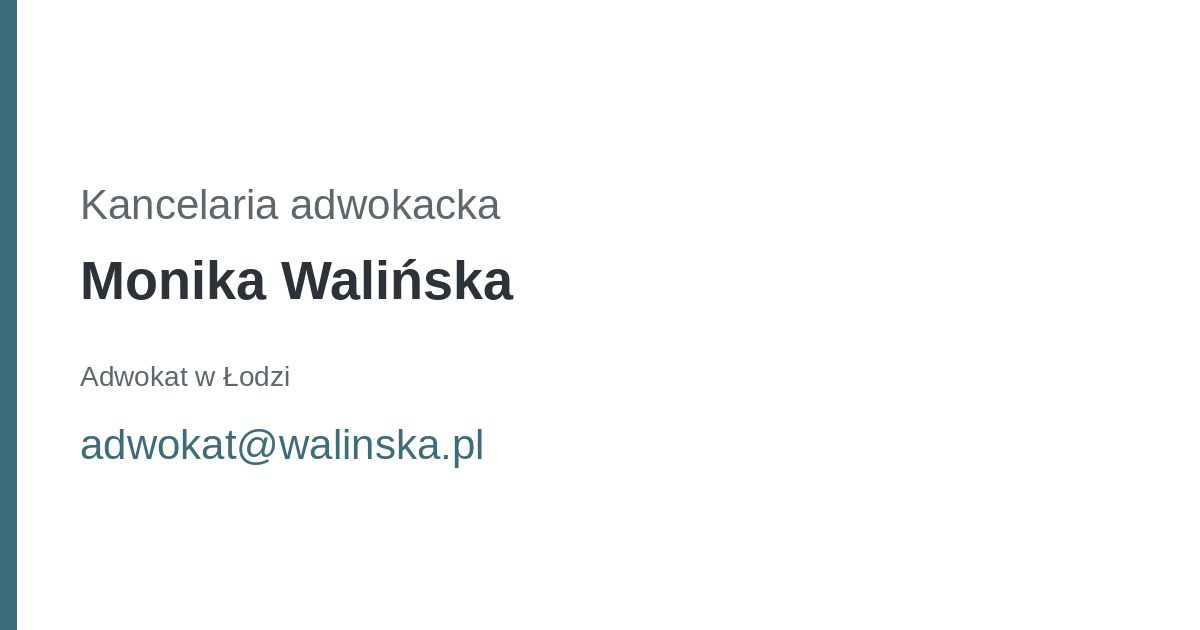
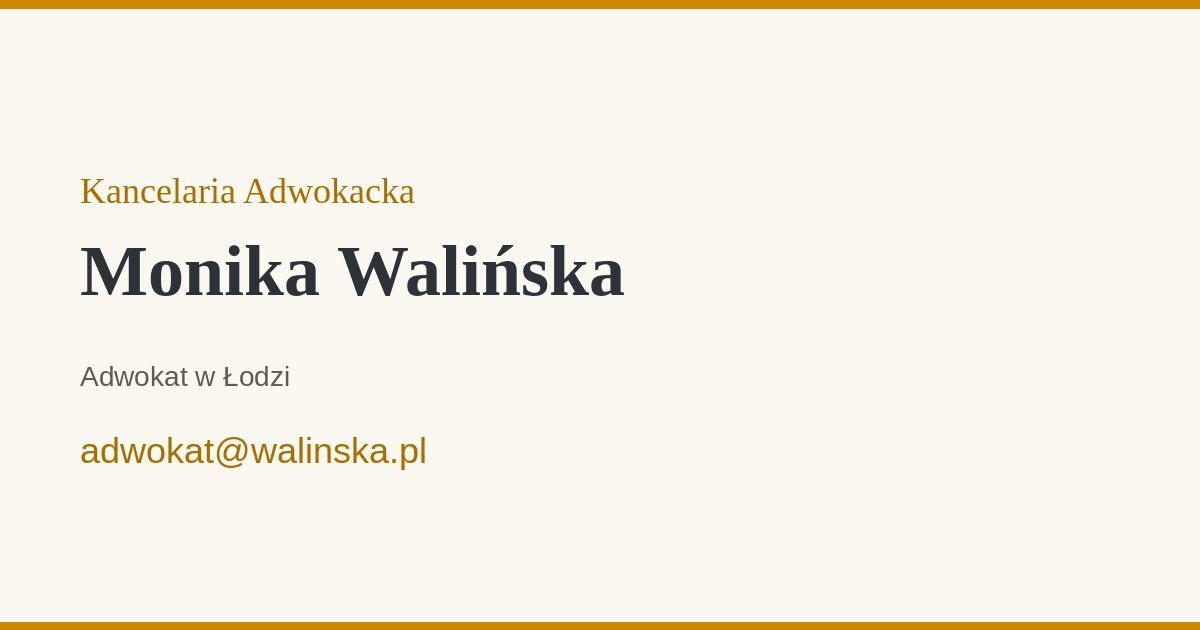
Give the preview a gold serif treatment.
Split the hero into two lines, restore the original gold accent, and set headings in Source Serif 4 with thin gold rules.

diff --git a/css/style.css b/css/style.css
@@ -1,4 +1,22 @@
 @font-face {
+  font-family: "Source Serif 4";
+  font-style: normal;
+  font-weight: 400 700;
+  font-display: swap;
+  src: url("../fonts/source-serif-latin-ext.woff2") format("woff2");
+  unicode-range: U+0100-02BA, U+02BD-02C5, U+02C7-02CC, U+02CE-02D7, U+02DD-02FF, U+0304, U+0308, U+0329, U+1D00-1DBF, U+1E00-1E9F, U+1EF2-1EFF, U+2020, U+20A0-20AB, U+20AD-20C0, U+2113, U+2C60-2C7F, U+A720-A7FF;
+}
+
+@font-face {
+  font-family: "Source Serif 4";
+  font-style: normal;
+  font-weight: 400 700;
+  font-display: swap;
+  src: url("../fonts/source-serif-latin.woff2") format("woff2");
+  unicode-range: U+0000-00FF, U+0131, U+0152-0153, U+02BB-02BC, U+02C6, U+02DA, U+02DC, U+0304, U+0308, U+0329, U+2000-206F, U+20AC, U+2122, U+2191, U+2193, U+2212, U+2215, U+FEFF, U+FFFD;
+}
+
+@font-face {
   font-family: Inter;
   font-style: normal;
   font-weight: 400 700;
@@ -18,13 +36,15 @@
 
 :root {
   --ink: #2c3238;
-  --muted: #5c656e;
-  --accent: #3d6d7a;
-  --accent-deep: #2c5560;
-  --line: #e4e7ea;
-  --paper: #f4f6f7;
-  --white: #fff;
-  --shadow: 0 10px 28px rgba(44, 50, 56, 0.07);
+  --muted: #5c574f;
+  --gold: #cc8800;
+  --gold-deep: #a86e00;
+  --accent: var(--gold);
+  --accent-deep: var(--gold-deep);
+  --line: #e7e0d6;
+  --paper: #f6f3ee;
+  --white: #fffdfb;
+  --shadow: 0 16px 36px rgba(92, 68, 32, 0.08);
   --wrap: 1080px;
   --header: 72px;
 }
@@ -41,7 +61,7 @@ body {
   font-size: 17px;
   line-height: 1.7;
   color: var(--muted);
-  background: var(--paper);
+  background: #f3efe8;
   text-transform: none;
   font-variant: normal;
   letter-spacing: normal;
@@ -57,12 +77,13 @@ a:hover { color: var(--accent); }
   outline-offset: 3px;
 }
 
-::selection { background: #d5e4e8; color: var(--ink); }
+::selection { background: #f3e0bc; color: var(--ink); }
 
 h1, h2, h3 {
-  font-weight: 600;
+  font-family: "Source Serif 4", Georgia, "Times New Roman", serif;
+  font-weight: 560;
   color: var(--ink);
-  line-height: 1.25;
+  line-height: 1.2;
   text-transform: none;
   letter-spacing: normal;
 }
@@ -101,9 +122,9 @@ p { margin: 0 0 0.9em; }
   position: sticky;
   top: 0;
   z-index: 40;
-  background: rgba(255, 255, 255, 0.94);
+  background: rgba(255, 253, 251, 0.94);
   backdrop-filter: blur(12px);
-  border-bottom: 1px solid var(--line);
+  border-bottom: 1px solid rgba(204, 136, 0, 0.35);
 }
 
 .head-inner {
@@ -116,8 +137,9 @@ p { margin: 0 0 0.9em; }
 
 .logo {
   color: var(--ink);
-  font-weight: 600;
-  font-size: 18px;
+  font-family: "Source Serif 4", Georgia, serif;
+  font-weight: 560;
+  font-size: 20px;
   line-height: 1.2;
   padding: 8px 0;
 }
@@ -167,13 +189,42 @@ p { margin: 0 0 0.9em; }
   color: var(--accent-deep);
 }
 
-.hero { padding: 64px 0 28px; }
+.hero {
+  padding: 72px 0 40px;
+  background:
+    radial-gradient(900px 280px at 12% 0%, rgba(204, 136, 0, 0.16), transparent 70%),
+    linear-gradient(180deg, #fbf6ee 0%, #f3efe8 100%);
+  border-bottom: 1px solid rgba(204, 136, 0, 0.28);
+}
 
 .hero h1 {
-  margin: 0 0 12px;
-  max-width: 16ch;
-  font-size: clamp(34px, 5vw, 52px);
-  font-weight: 600;
+  margin: 0 0 8px;
+  font-weight: 500;
+}
+
+.hero-kicker {
+  display: block;
+  margin-bottom: 6px;
+  color: var(--gold-deep);
+  font-size: clamp(20px, 2.4vw, 28px);
+  font-weight: 500;
+  line-height: 1.2;
+}
+
+.hero-name {
+  display: block;
+  font-size: clamp(40px, 6vw, 64px);
+  font-weight: 560;
+  line-height: 1.05;
+}
+
+.hero h1::after {
+  content: "";
+  display: block;
+  width: 72px;
+  height: 1px;
+  margin-top: 18px;
+  background: var(--gold);
 }
 
 .hero-profile {
@@ -199,15 +250,36 @@ p { margin: 0 0 0.9em; }
 .section { padding: 12px 0; }
 
 .card {
-  background: var(--white);
+  position: relative;
+  background: linear-gradient(180deg, #fffefb 0%, #fff 70%);
+  border: 1px solid rgba(204, 136, 0, 0.2);
   border-radius: 18px;
   box-shadow: var(--shadow);
-  padding: 36px 36px 28px;
+  padding: 40px 36px 32px;
+}
+
+.card::before {
+  content: "";
+  position: absolute;
+  top: 0;
+  left: 28px;
+  right: 28px;
+  height: 1px;
+  background: linear-gradient(90deg, transparent, var(--gold), transparent);
 }
 
 .section-title {
-  margin: 0 0 18px;
-  font-size: 28px;
+  margin: 0 0 22px;
+  font-size: 32px;
+}
+
+.section-title::after {
+  content: "";
+  display: block;
+  width: 48px;
+  height: 1px;
+  margin-top: 12px;
+  background: var(--gold);
 }
 
 .prose { max-width: 68ch; }
@@ -235,7 +307,8 @@ p { margin: 0 0 0.9em; }
 }
 
 .spec {
-  background: var(--paper);
+  background: linear-gradient(180deg, #fffdf9, #f8f3eb);
+  border: 1px solid rgba(204, 136, 0, 0.16);
   border-radius: 14px;
   padding: 22px 16px 14px;
 }
@@ -253,9 +326,10 @@ p { margin: 0 0 0.9em; }
 
 .steps article,
 .service {
-  background: var(--paper);
+  background: linear-gradient(180deg, #fffdf9, #f8f3eb);
+  border: 1px solid rgba(204, 136, 0, 0.16);
   border-radius: 14px;
-  padding: 20px 16px;
+  padding: 22px 18px;
 }
 
 .steps h3 { margin: 12px 0 6px; font-size: 18px; }
@@ -269,10 +343,11 @@ p { margin: 0 0 0.9em; }
 }
 
 .price {
-  background: var(--paper);
+  background: linear-gradient(180deg, #fffdf9, #f8f3eb);
+  border: 1px solid rgba(204, 136, 0, 0.2);
   border-radius: 14px;
   padding: 22px 18px;
-  border-top: 3px solid var(--accent);
+  border-top: 2px solid var(--gold);
 }
 
 .price h3 {
@@ -326,15 +401,16 @@ p { margin: 0 0 0.9em; }
 
 #footer {
   background: var(--ink);
-  color: #d7dce0;
+  color: #e4ddd4;
   padding: 56px 0 32px;
-  margin-top: 28px;
+  margin-top: 36px;
+  border-top: 1px solid var(--gold);
 }
 
-#footer h2 { color: var(--white); font-size: 28px; }
-#footer a { color: var(--white); }
-#footer a:hover { color: #d5e4e8; }
-#footer .icon { color: #9aa3aa; }
+#footer h2 { color: var(--white); font-size: 32px; }
+#footer a { color: #f0d7a4; }
+#footer a:hover { color: var(--white); }
+#footer .icon { color: var(--gold); }
 
 .contact {
   display: grid;
@@ -426,10 +502,10 @@ p { margin: 0 0 0.9em; }
 
 @media (max-width: 640px) {
   .wrap { width: min(var(--wrap), calc(100% - 28px)); }
-  .hero { padding: 36px 0 12px; }
-  .hero h1 { font-size: 32px; }
+  .hero { padding: 40px 0 24px; }
+  .hero-name { font-size: 36px; }
   .card { padding: 24px 18px 18px; }
-  .section-title { font-size: 24px; }
+  .section-title { font-size: 26px; }
   .specs,
   .steps { grid-template-columns: 1fr; }
   .logo-row,

diff --git a/index.html b/index.html
@@ -65,9 +65,9 @@
 </header>
 
 <main id="tresc">
-  <section class="hero" aria-label="Kancelaria adwokacka Monika Walińska">
+  <section class="hero" aria-label="Kancelaria Adwokacka Monika Walińska">
     <div class="wrap">
-      <h1>Kancelaria adwokacka Monika Walińska</h1>
+      <h1><span class="hero-kicker">Kancelaria Adwokacka</span><span class="hero-name">Monika Walińska</span></h1>
       <p class="hero-profile">Adwokat w Łodzi. Sprawy odszkodowawcze, rodzinne, karne i spadkowe.</p>
       <p class="hero-mail"><a href="mailto:adwokat@walinska.pl">adwokat@walinska.pl</a></p>
     </div>
